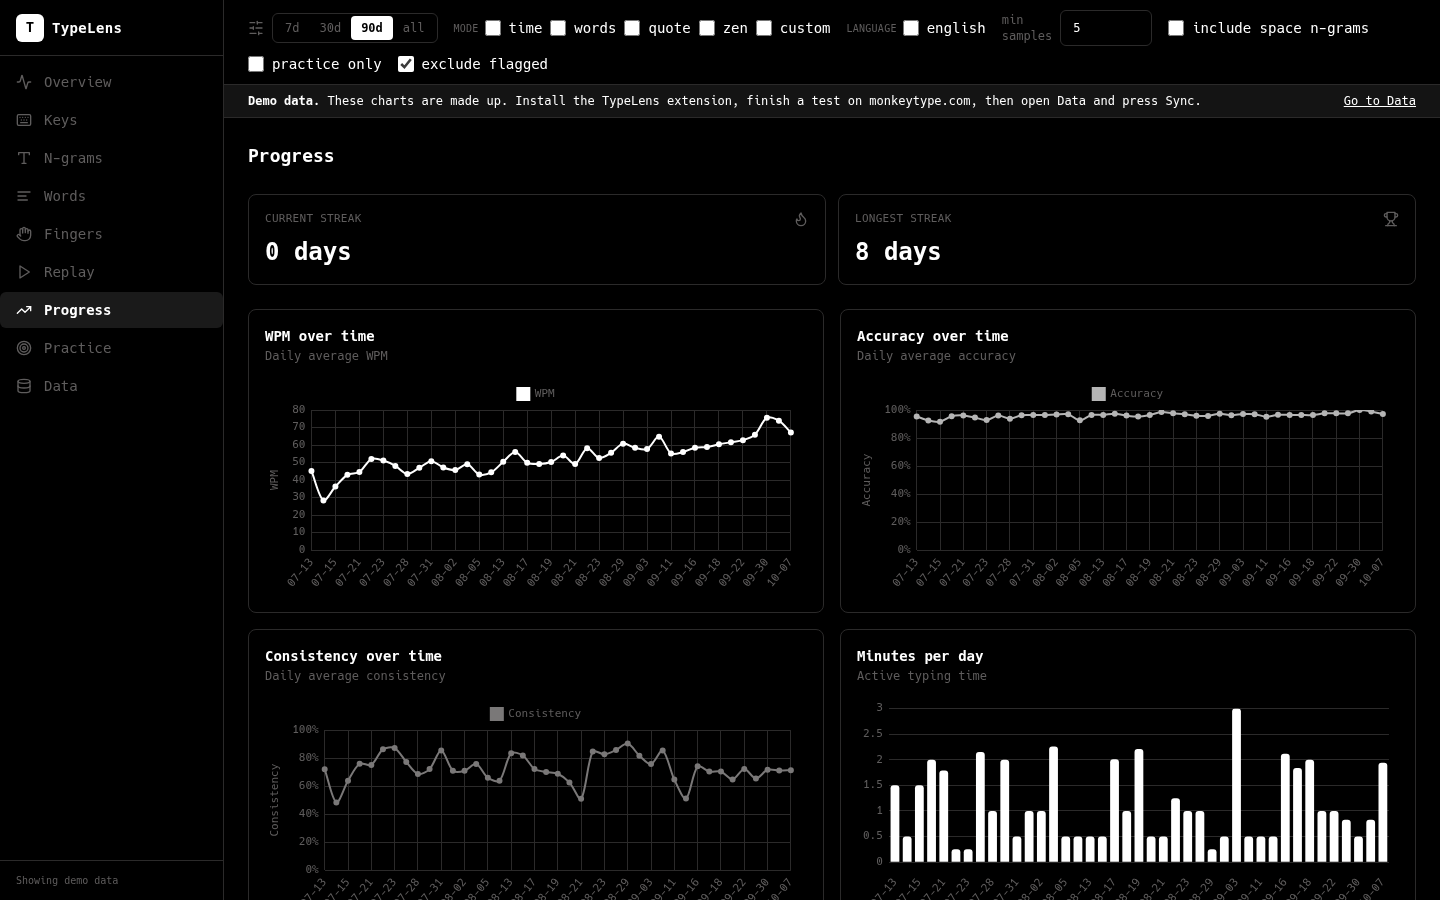
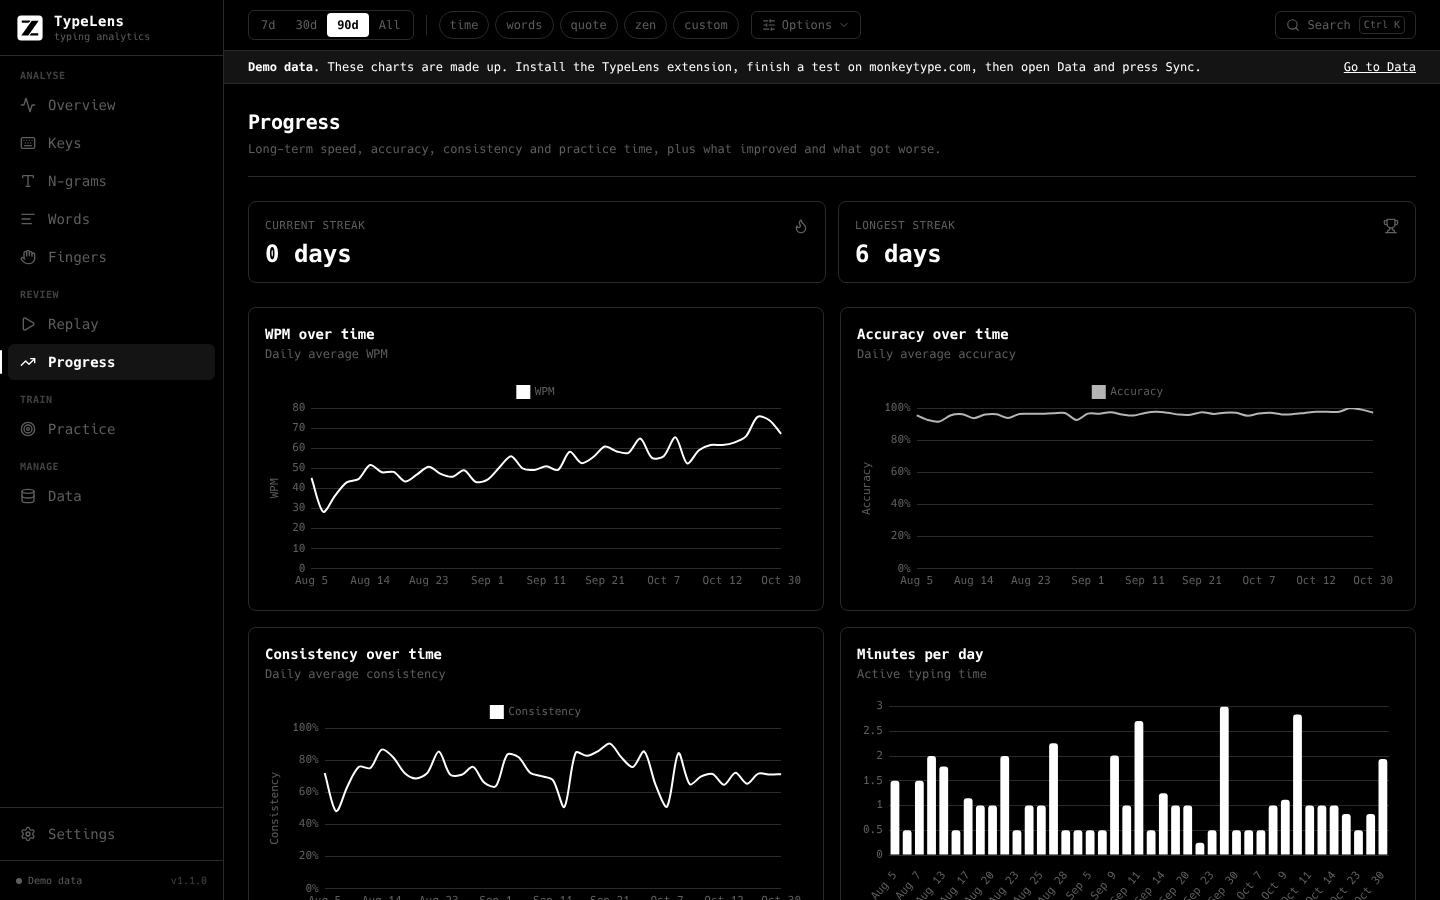
Release 1.1.0: version bump, changelog, README and screenshots
Claude-Session: https://claude.ai/code/session_0159DuSTymodKfhAqB3FzLNV

diff --git a/CHANGELOG.md b/CHANGELOG.md
@@ -7,7 +7,20 @@ The format is based on [Keep a Changelog](https://keepachangelog.com/en/1.1.0/),
 
 ## [Unreleased]
 
+## [1.1.0] - 2026-11-01
+
 ### Added
+
+- **Insights.** The Overview opens with plain-language observations: how your speed and accuracy changed against
+  the period before, new personal bests, the time of day you type fastest, a nudge after a break, and when you
+  restart many tests.
+- **Compared with the previous period.** WPM, accuracy, consistency, tests and minutes show how much they changed
+  against the same number of days before the selected range.
+- **Personal bests.** The fastest finished test per mode (time 30, words 50, ...), each opening its replay. Tests
+  that beat your previous best get a **PB** badge in the session list.
+- **Goals.** Set a weekly practice time and a target WPM in **Settings → Goals**. The Overview tracks both.
+- **Command palette.** Press `Ctrl+K` (`Cmd+K` on macOS) or click **Search** to jump to any page, change the date
+  range, switch theme, import or export.
 
 - **TypeLens without the desktop app.** The extension now contains the whole dashboard. Click **Open dashboard** in
   the toolbar popup: every page works, new tests appear as soon as you finish them, and import and export work as in
@@ -20,6 +33,10 @@ The format is based on [Keep a Changelog](https://keepachangelog.com/en/1.1.0/),
 
 ### Changed
 
+- **A cleaner look.** Every page has a header that says what it shows. The sidebar groups pages (Analyse, Review,
+  Train, Manage), shows the TypeLens logo in your theme's colours, the number of tests and the version. The filter
+  bar uses pills for modes and languages and keeps the advanced options in an **Options** menu. Chart dates read
+  "Oct 5" instead of "10-05" and no longer overlap on long ranges.
 - **License.** TypeLens is now licensed under the GNU General Public License, version 3 or later (GPL-3.0-or-later).
   Versions up to and including 1.0.2 were released under the MIT License.
 - The popup's main button opens the built-in dashboard; **Open app** appears next to the desktop status when the app
